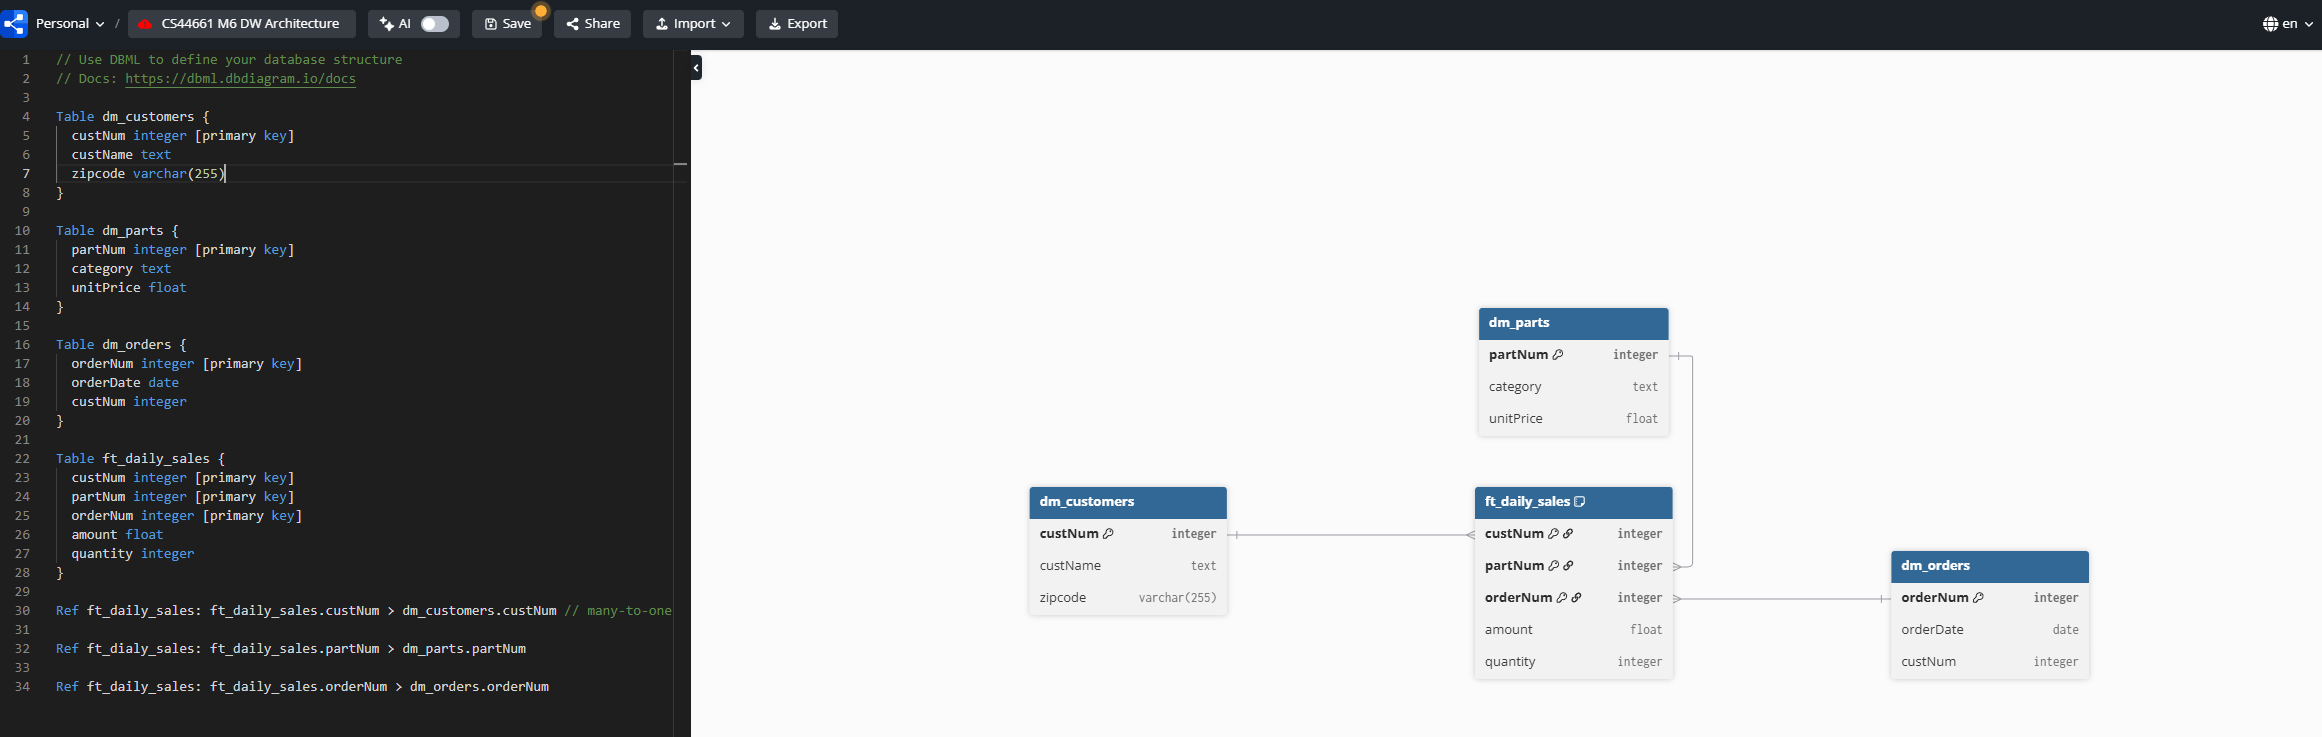
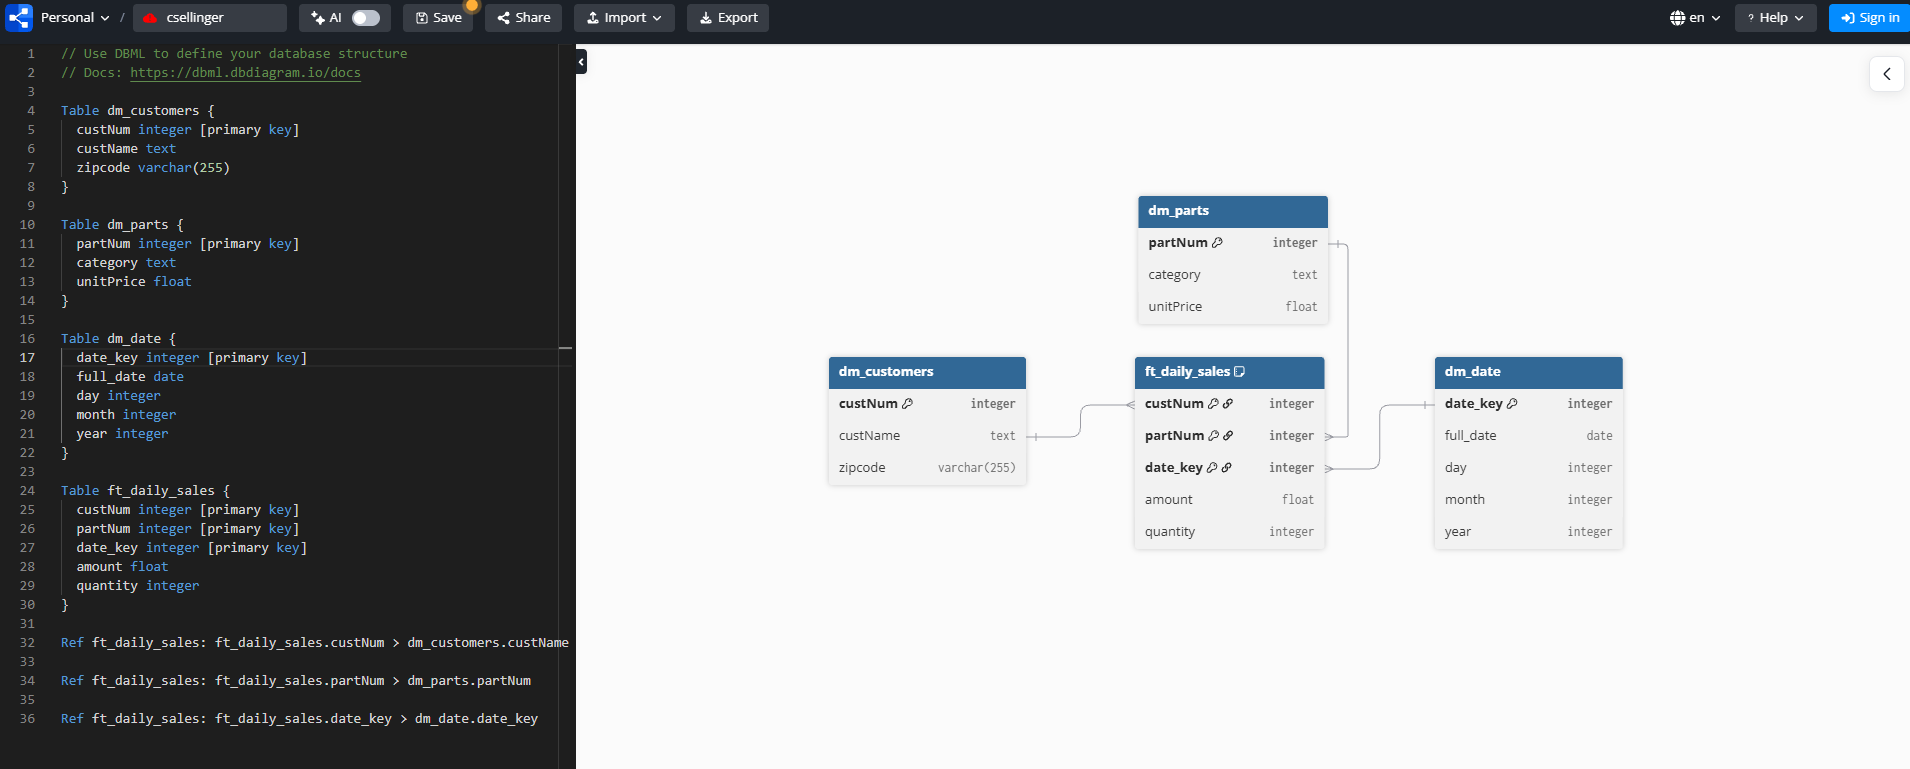
Working...

diff --git a/exercises/exercise06.md b/exercises/exercise06.md
@@ -107,7 +107,7 @@ Save your diagram image in this repo and embed it below.
 
 #### Diagram
 
-![star-schema](screenshots/star-schema.png)
+![alt text](screenshots/star-schema.png)
 
 ---
 
@@ -121,4 +121,53 @@ In 1-2 short paragraphs, explain:
 
 #### Design Notes
 
-_Write your design notes here._
+The fact table's quantitative data can be filed down to the primary keys on a per customer, per part, per order basis making the grain based on daily sales, as you cannot make one order on two different days. In this way, we can see daily sales by customer, part, or date. The grain cannot be reduced as the date is only modified by day. There is no reference to time of day, such as noon or midnight. The amounts and quantities would be calculated by the following (using the operational database):
+
+```sql
+SELECT
+      c.custNumber,
+      p.partNum,
+      o.orderNum,
+      o.orderDate,
+      ol.numOrdered as quantity,
+      SUM(p.unitPrice) as amount
+FROM parts as p
+JOIN orderline as ol
+ON ol.partNum = p.partNum
+JOIN orders as o
+ON o.orderNum = ol.orderNum
+JOIN customer as c
+ON c.custNumber = o.custNum
+GROUP BY c.custNumber, p.partNum, o.orderNum, o.orderDate;
+```
+
+The customer table contains customer name and zipcode (extracted from customer.address using postgresql's substring function) to answer two defined questions, **average amount spent per customer per day** and **amount of revenue generated by customers in zip code**.
+
+```sql
+-- Average amount spent per customer per day
+SELECT orderDate, custNum, AVG(amount)
+FROM ft_daily_sales
+GROUP BY custNum, orderDate
+ORDER BY custNum ASC;
+```
+
+```sql
+-- Amount of revenue generated by customers in specific zipcode
+SELECT c.zipcode, SUM(f.amount)
+FROM ft_daily_sales f
+JOIN dm_customers c ON c.custNum = f.custNum
+GROUP BY c.zipcode
+```
+
+The parts table contains category and unit price to answer **How many appliance items were sold during [date]** or any other part related queries.
+
+```sql
+SELECT f.orderDate, p.category, COUNT(f.partNum)
+FROM ft_daily_sales f
+JOIN dm_parts p
+ON p.partNum = f.partNum
+WHERE p.category = 'Appliance' AND f.orderDate = [date]
+GROUP BY p.category, f.orderDate
+```
+
+The date table contains full date and extracts for day, month, year, in order to reduce grain to daily aggregations.
